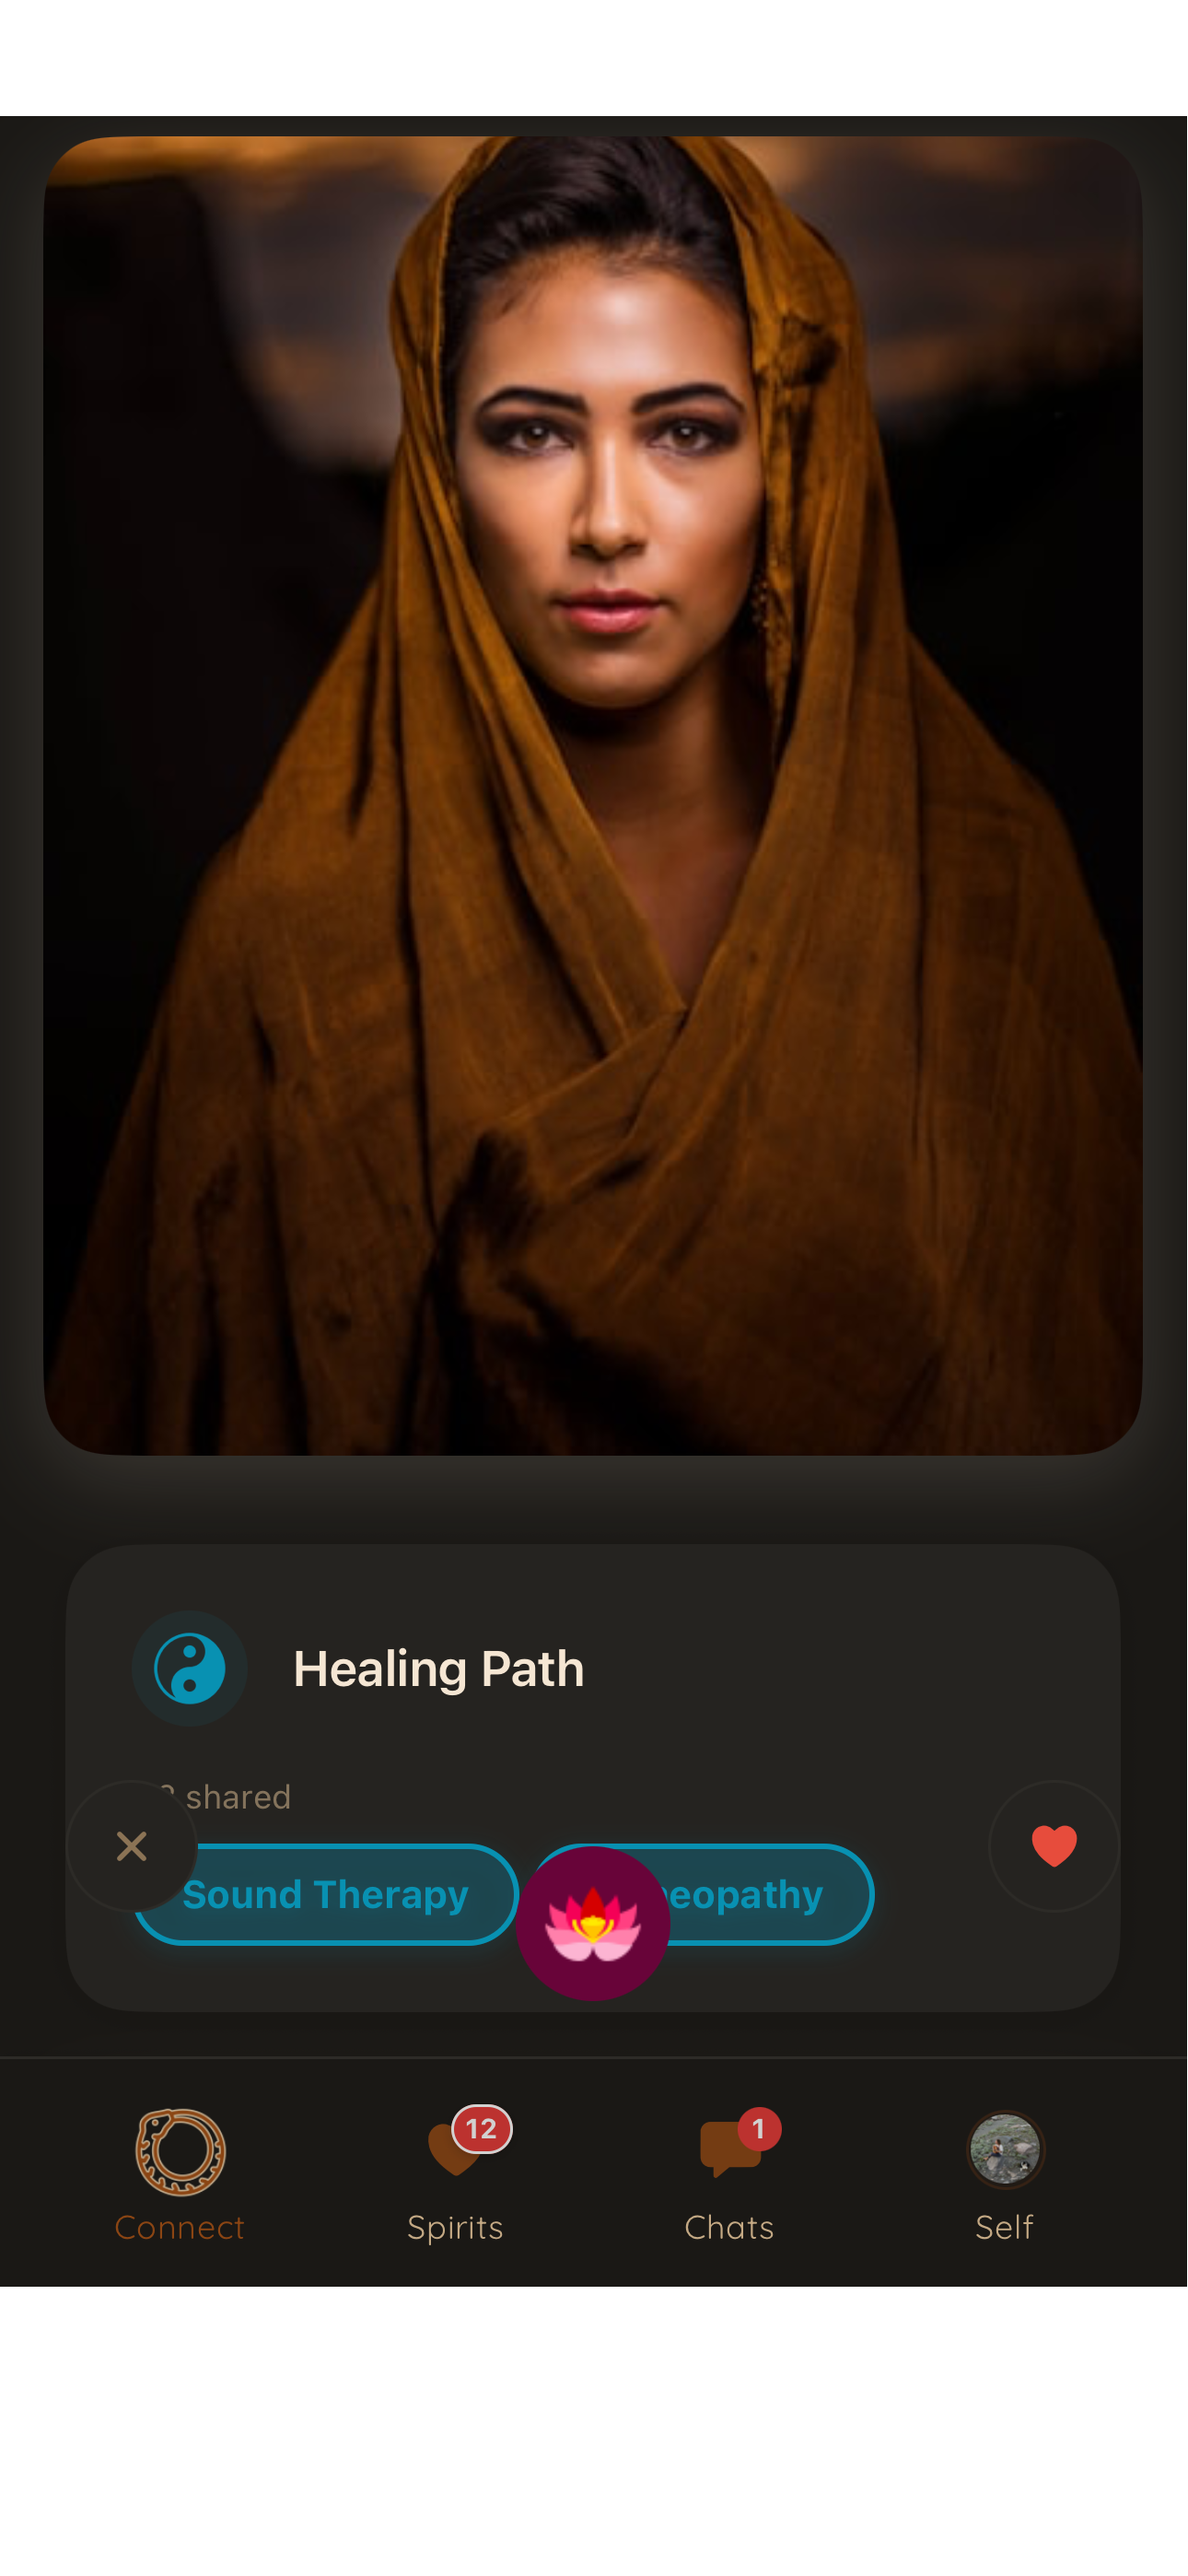
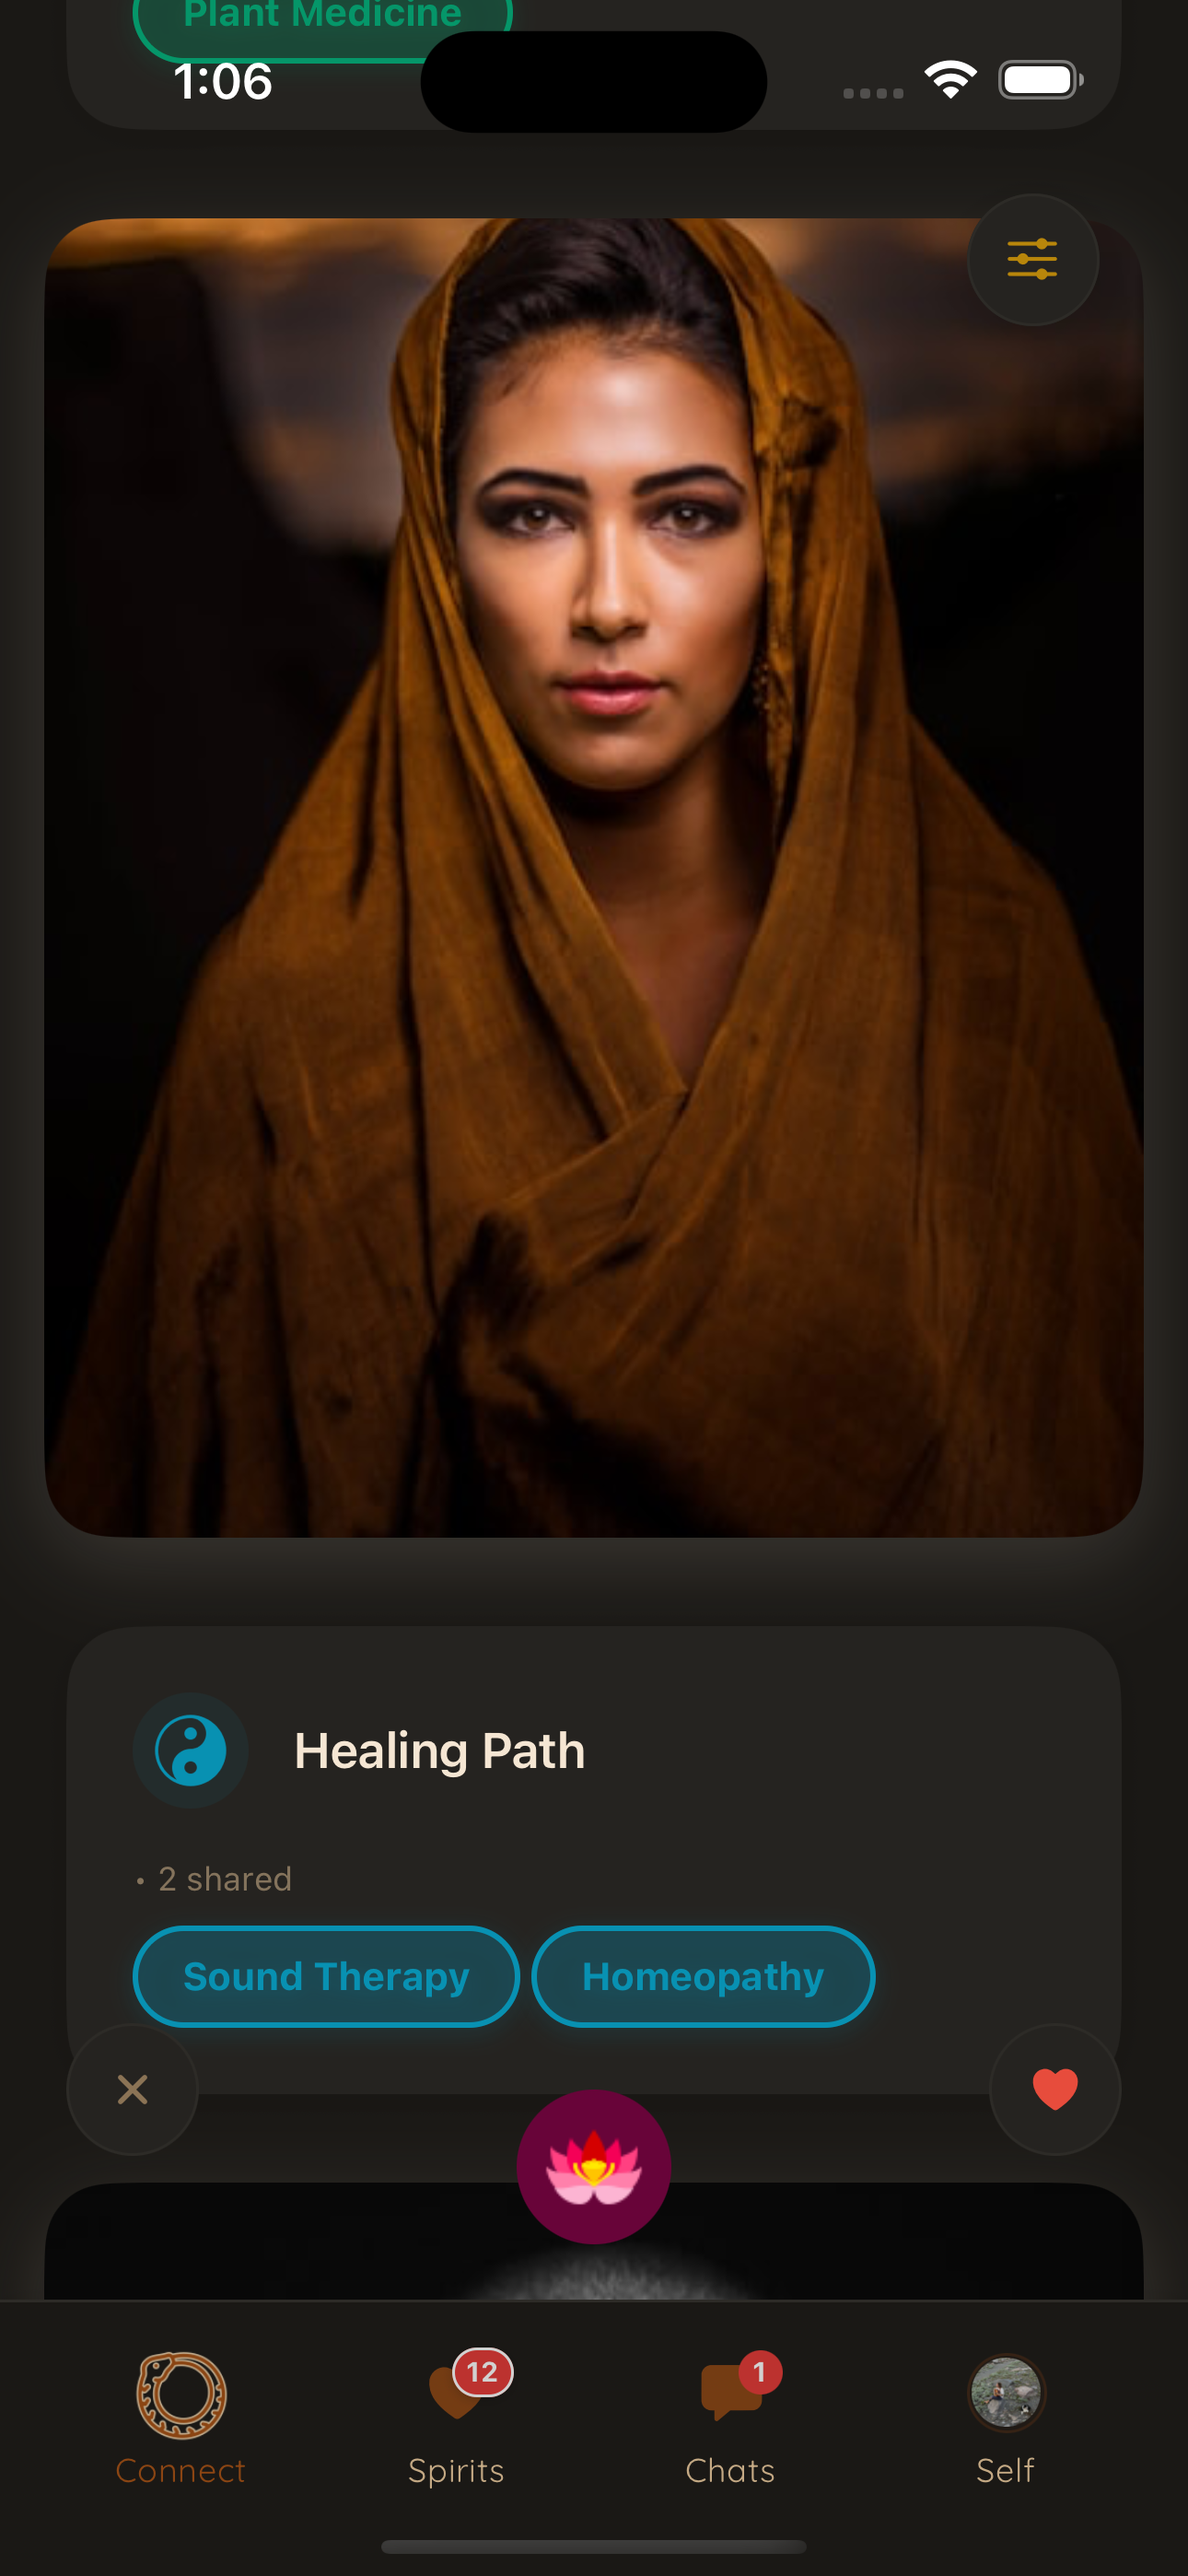
add new framne adnd designs

diff --git a/src/app/components/HeroSection.tsx b/src/app/components/HeroSection.tsx
@@ -266,8 +266,8 @@ const HeroSection = ({ showIntro, stats, countdown, openModal }: HeroSectionProp
               </div>
             </div>
             
-            {/* Bottom: 3 Phone Frames */}
-            <div className="grid grid-cols-1 md:grid-cols-3 gap-8 max-w-4xl mx-auto">
+            {/* Bottom: 4 Phone Frames */}
+            <div className="grid grid-cols-1 md:grid-cols-2 lg:grid-cols-4 gap-8 max-w-6xl mx-auto">
               {/* Phone 1 - Connect Feature */}
               <div className="relative group">
                 <div className="relative mx-auto w-64 h-[500px] bg-gradient-to-br from-spiritual-background to-spiritual-tertiary rounded-[2.5rem] shadow-xl border-6 border-spiritual-accent/20 dark:from-spiritual-dark-background dark:to-spiritual-dark-tertiary transform transition-all duration-500 group-hover:scale-105 group-hover:-rotate-2">
@@ -281,7 +281,7 @@ const HeroSection = ({ showIntro, stats, countdown, openModal }: HeroSectionProp
                       alt="Connect Screen"
                       fill
                       className="object-cover"
-                      style={{ objectPosition: 'center 10%' }}
+                      style={{ objectPosition: 'center 80%' }}
                     />
                   </div>
                 </div>
@@ -306,14 +306,14 @@ const HeroSection = ({ showIntro, stats, countdown, openModal }: HeroSectionProp
                       alt="Kindred Screen"
                       fill
                       className="object-cover"
-                      style={{ objectPosition: 'center 25%' }}
+                      style={{ objectPosition: 'center 75%' }}
                     />
                   </div>
                 </div>
                 
                 {/* Label */}
                 <div className="text-center mt-4">
-                  <h4 className="text-xl font-spirituality font-bold text-spiritual-accent mb-1 dark:text-spiritual-dark-accent">Kindred</h4>
+                  <h4 className="text-xl font-spirituality font-bold text-spiritual-accent mb-1 dark:text-spiritual-dark-accent">Kindred Spirits</h4>
                   <p className="text-sm text-spiritual-text-muted dark:text-spiritual-dark-text-light">Discover souls</p>
                 </div>
               </div>
@@ -331,15 +331,40 @@ const HeroSection = ({ showIntro, stats, countdown, openModal }: HeroSectionProp
                       alt="Chat Screen"
                       fill
                       className="object-cover"
-                      style={{ objectPosition: 'center 25%' }}
+                      style={{ objectPosition: 'center 70%' }}
                     />
                   </div>
                 </div>
                 
                 {/* Label */}
                 <div className="text-center mt-4">
-                  <h4 className="text-xl font-spirituality font-bold text-spiritual-accent mb-1 dark:text-spiritual-dark-accent">Chat</h4>
-                  <p className="text-sm text-spiritual-text-muted dark:text-spiritual-dark-text-light">Start conversations</p>
+                  <h4 className="text-xl font-spirituality font-bold text-spiritual-accent mb-1 dark:text-spiritual-dark-accent">Soul Chats</h4>
+                  <p className="text-sm text-spiritual-text-muted dark:text-spiritual-dark-text-light">Start connecting</p>
+                </div>
+              </div>
+
+              {/* Phone 4 - Sacred Self Feature */}
+              <div className="relative group">
+                <div className="relative mx-auto w-64 h-[500px] bg-gradient-to-br from-spiritual-background to-spiritual-tertiary rounded-[2.5rem] shadow-xl border-6 border-spiritual-accent/20 dark:from-spiritual-dark-background dark:to-spiritual-dark-tertiary transform transition-all duration-500 group-hover:scale-105 group-hover:rotate-2">
+                  {/* Phone Notch */}
+                  <div className="absolute top-0 left-1/2 transform -translate-x-1/2 w-24 h-5 bg-spiritual-accent/20 rounded-b-xl"></div>
+                  
+                  {/* Screen Content */}
+                  <div className="absolute inset-1.5 bg-white rounded-[2rem] overflow-hidden dark:bg-spiritual-dark-card">
+                    <Image
+                      src="/assets/frames/self1.png"
+                      alt="Sacred Self Screen"
+                      fill
+                      className="object-cover"
+                      style={{ objectPosition: 'center 75%' }}
+                    />
+                  </div>
+                </div>
+                
+                {/* Label */}
+                <div className="text-center mt-4">
+                  <h4 className="text-xl font-spirituality font-bold text-spiritual-accent mb-1 dark:text-spiritual-dark-accent">Self</h4>
+                  <p className="text-sm text-spiritual-text-muted dark:text-spiritual-dark-text-light">Express yourself</p>
                 </div>
               </div>
             </div>

diff --git a/src/app/components/RoadmapSection.tsx b/src/app/components/RoadmapSection.tsx
@@ -55,8 +55,8 @@ const RoadmapSection = () => {
   };
 
   return (
-    <section id="roadmap" className="py-20 bg-white dark:bg-spiritual-dark-background">
-      <div className="max-w-6xl mx-auto px-6">
+    <section id="roadmap" className="py-24 bg-white dark:bg-spiritual-dark-background">
+      <div className="max-w-[90rem] mx-auto px-8">
         <motion.div
           className="text-center mb-16"
           initial={{ opacity: 0, y: 30 }}
@@ -72,7 +72,7 @@ const RoadmapSection = () => {
           </p>
         </motion.div>
 
-        <div className="grid grid-cols-1 md:grid-cols-2 lg:grid-cols-5 gap-6">
+        <div className="grid grid-cols-1 md:grid-cols-2 lg:grid-cols-3 xl:grid-cols-5 gap-8">
           {roadmapItems.map((item, index) => (
             <motion.div
               key={index}
@@ -82,28 +82,30 @@ const RoadmapSection = () => {
               viewport={{ once: true }}
               transition={{ duration: 0.6, delay: index * 0.1 }}
             >
-              <div className="bg-white/80 backdrop-blur-sm rounded-2xl p-6 border border-spiritual-accent/20 shadow-lg hover:shadow-xl transition-all duration-300 h-full dark:bg-spiritual-dark-card/80 dark:border-spiritual-dark-border">
-                <div className="flex items-center justify-between mb-4">
-                  <span className="text-sm font-medium text-spiritual-accent">
-                    {item.phase}
-                  </span>
-                  <span
-                    className={`px-3 py-1 rounded-full text-xs font-medium text-white ${getStatusColor(
-                      item.status
-                    )}`}
-                  >
-                    {item.status}
-                  </span>
+              <div className="bg-white/80 backdrop-blur-sm rounded-2xl p-8 border border-spiritual-accent/20 shadow-lg hover:shadow-xl transition-all duration-300 h-full dark:bg-spiritual-dark-card/80 dark:border-spiritual-dark-border">
+                <div className="text-center mb-6">
+                  <div className="flex items-center justify-center gap-3 mb-3">
+                    <span className="text-sm font-medium text-spiritual-accent dark:text-spiritual-dark-accent">
+                      {item.phase}
+                    </span>
+                    <span
+                      className={`px-3 py-1 rounded-full text-xs font-medium text-white ${getStatusColor(
+                        item.status
+                      )}`}
+                    >
+                      {item.status}
+                    </span>
+                  </div>
                 </div>
-                <h3 className="text-xl font-spirituality font-bold text-spiritual-text-dark mb-3 tracking-wide dark:text-spiritual-dark-text-dark">
+                <h3 className="text-xl font-spirituality font-bold text-spiritual-text-dark mb-4 tracking-wide dark:text-spiritual-dark-text-dark text-center">
                   {item.title}
                 </h3>
-                <p className="text-spiritual-text-muted mb-4 leading-relaxed dark:text-spiritual-dark-text-muted">
+                <p className="text-spiritual-text-muted mb-6 leading-relaxed dark:text-spiritual-dark-text-muted text-center">
                   {item.description}
                 </p>
-                <div className="flex items-center text-sm text-spiritual-accent">
+                <div className="flex items-center justify-center text-sm text-spiritual-accent dark:text-spiritual-dark-accent font-medium">
                   <Clock className="w-4 h-4 mr-2" />
-                  {item.date}
+                  <span className="tracking-wide">{item.date}</span>
                 </div>
               </div>
             </motion.div>
